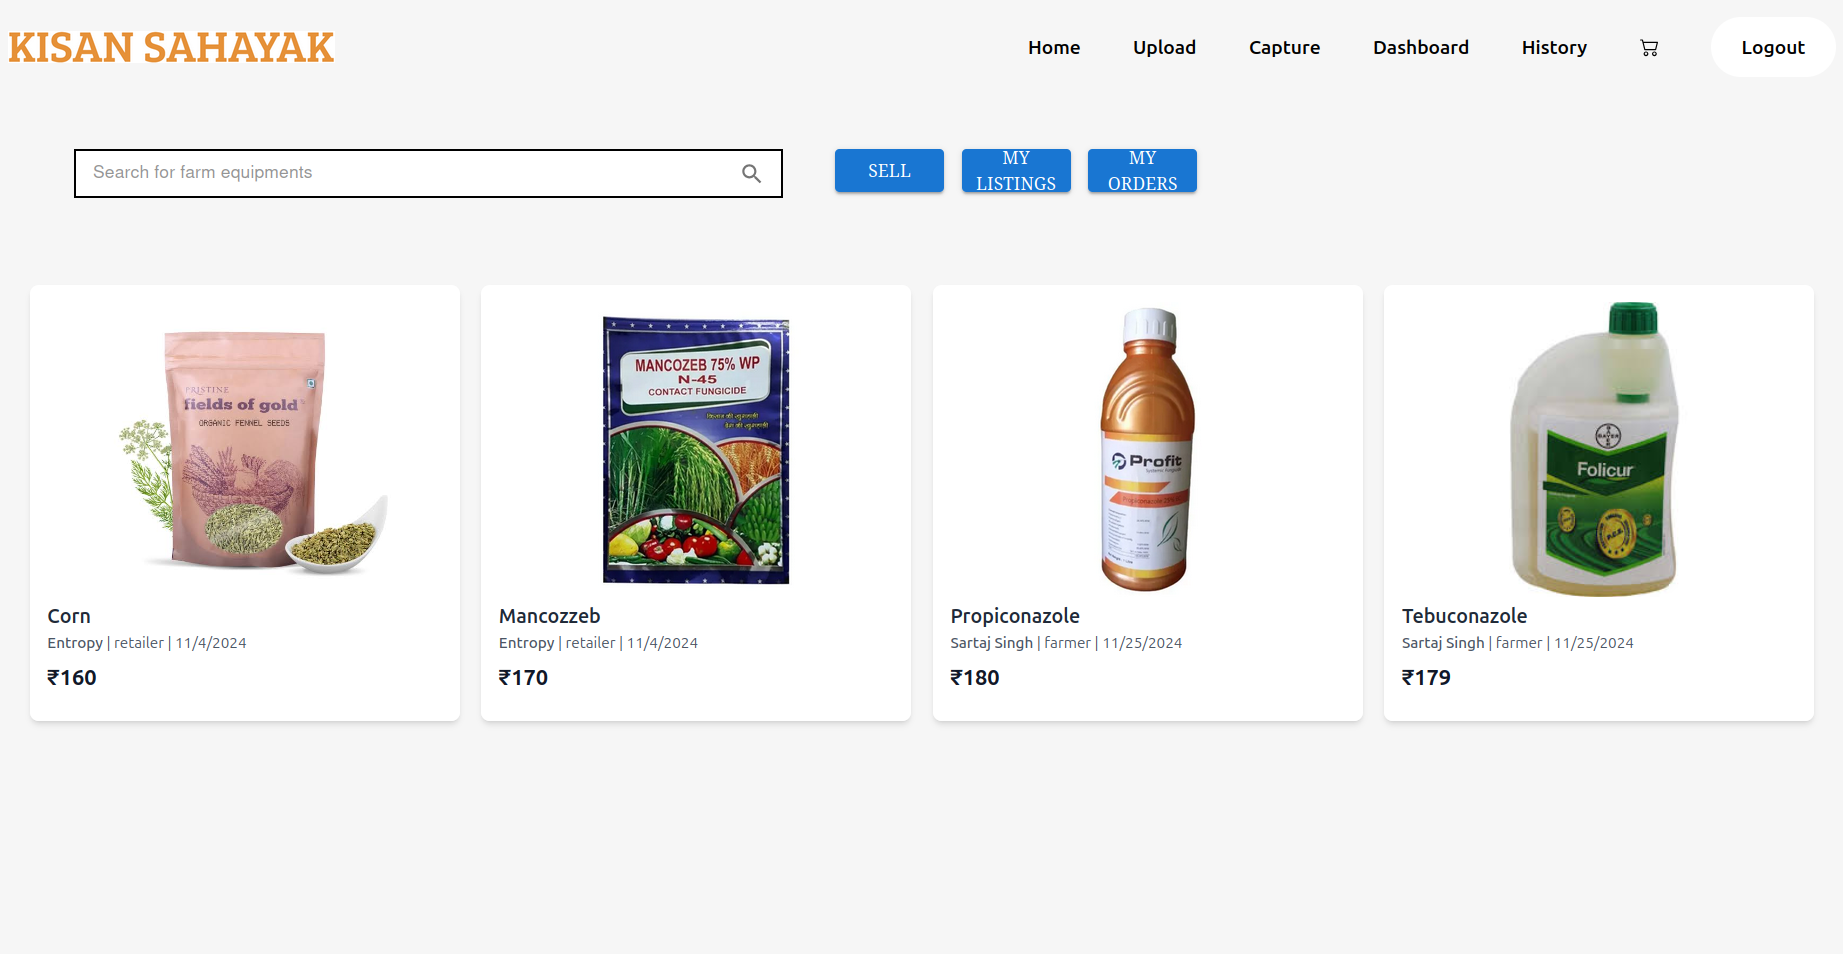
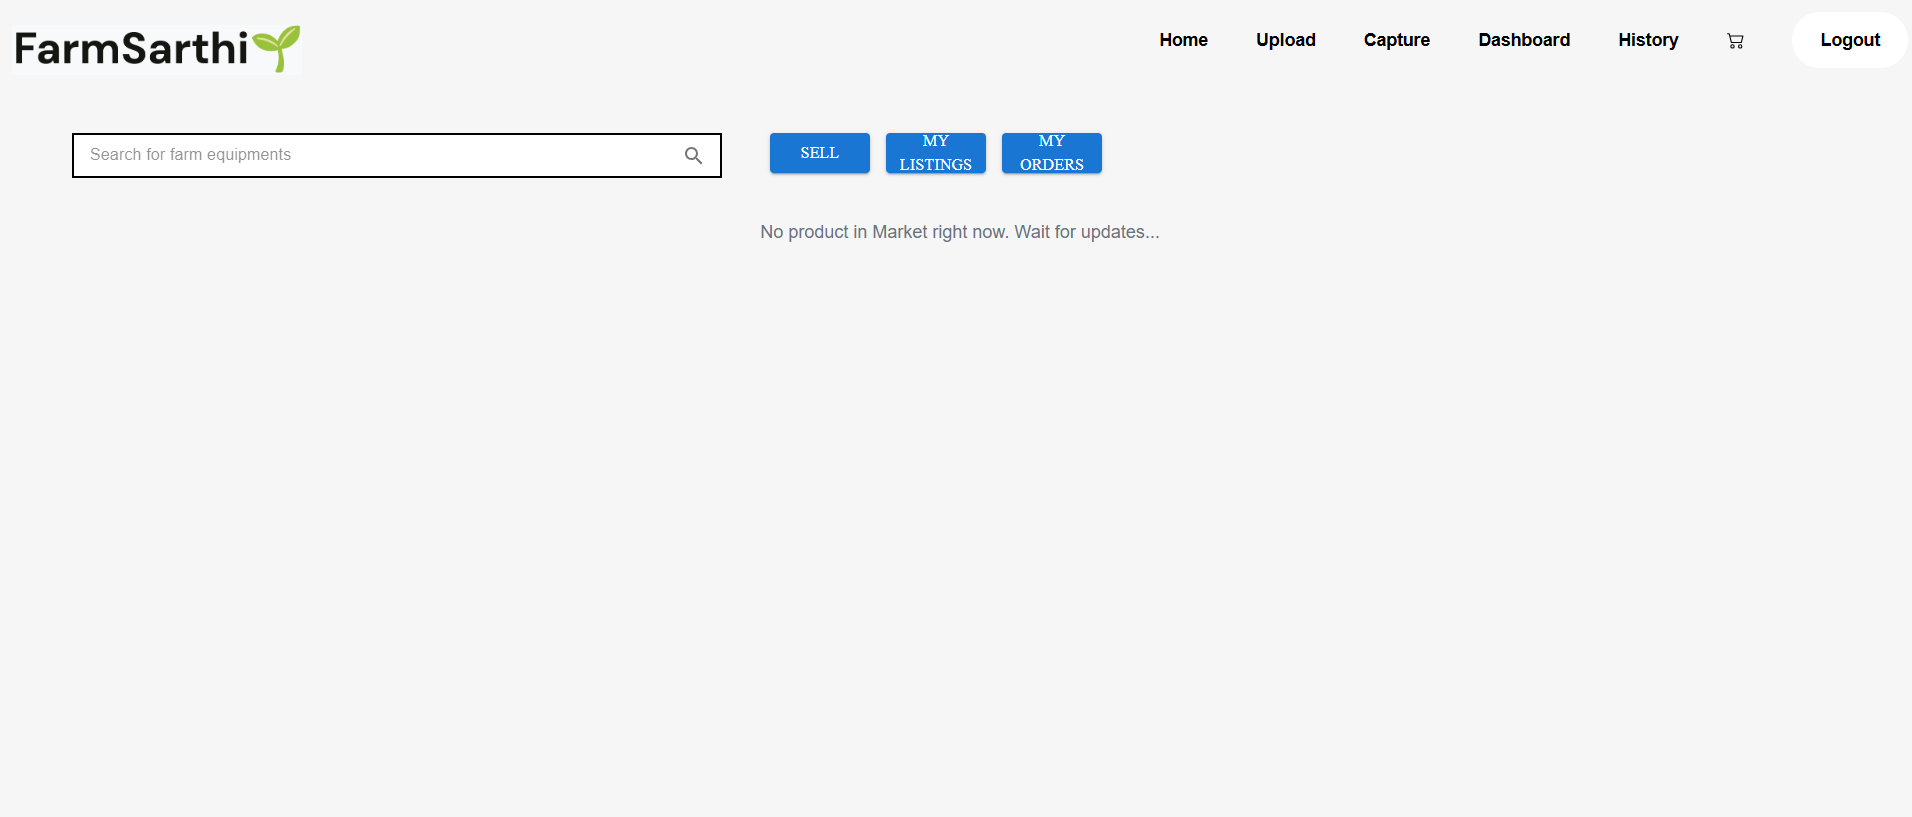
Final Update

diff --git a/frontend/src/components/navbars/Navbar-home.jsx b/frontend/src/components/navbars/Navbar-home.jsx
@@ -57,17 +57,24 @@ const Navbar = () => {
   return (
     <nav>
       <div className="nav-logo-container">
-        <img src="/KisanSahayak.png" alt="logo" className="h-[30px] w-full" />
+        <img src="/FarmSarthi.png" alt="logo" className="h-[50px] w-full mt-5" />
       </div>
       <div className="navbar-links-container hidden md:flex ml-4">
         <a href="" className="relative inline-block px-3 py-2 text-black after:content-[''] after:absolute after:left-0 after:bottom-0 after:h-[3px] after:w-0 after:bg-orange-500 after:transition-all after:duration-300 hover:after:w-full hover:after:bg-orange-500 hover:text-orange-500">Welcome</a>
 
-        <a href="#testimonial-id" className="relative inline-block px-3 py-2 text-black after:content-[''] after:absolute after:left-0 after:bottom-0 after:h-[3px] after:w-0 after:bg-orange-500 after:transition-all after:duration-300 hover:after:w-full hover:after:bg-orange-500 hover:text-orange-500">Statistics</a>
+        <a href="#statistics-id" className="relative inline-block px-3 py-2 text-black after:content-[''] after:absolute after:left-0 after:bottom-0 after:h-[3px] after:w-0 after:bg-orange-500 after:transition-all after:duration-300 hover:after:w-full hover:after:bg-orange-500 hover:text-orange-500">Statistics</a>
 
         <a href="#new-activities-id" className="relative inline-block px-3 py-2 text-black after:content-[''] after:absolute after:left-0 after:bottom-0 after:h-[3px] after:w-0 after:bg-orange-500 after:transition-all after:duration-300 hover:after:w-full hover:after:bg-orange-500 hover:text-orange-500">New</a>
 
-        <a href="#contact-id" className="relative inline-block px-3 py-2 text-black after:content-[''] after:absolute after:left-0 after:bottom-0 after:h-[3px] after:w-0 after:bg-orange-500 after:transition-all after:duration-300 hover:after:w-full hover:after:bg-orange-500 hover:text-orange-500">Contact</a>
-
+        <a href="#"
+  onClick={(e) => {
+    e.preventDefault(); // prevent default anchor behavior
+    window.scrollTo({ top: document.body.scrollHeight, behavior: "smooth" });
+  }}
+  className="relative inline-block px-3 py-2 text-black after:content-[''] after:absolute after:left-0 after:bottom-0 after:h-[3px] after:w-0 after:bg-orange-500 after:transition-all after:duration-300 hover:after:w-full hover:after:bg-orange-500 hover:text-orange-500"
+>
+  Contact
+</a>
         <a onClick={() => navigate("/marketplace")} href="" className="hover:text-orange-500">
           <BsCart2 className="navbar-cart-icon" />
         </a>

diff --git a/frontend/src/components/navbars/Navbar-actions.jsx b/frontend/src/components/navbars/Navbar-actions.jsx
@@ -57,7 +57,7 @@ const Navbar = () => {
     return (
         <nav className="px-3">
             <div className="nav-logo-container">
-                <img src="/KisanSahayak.png" alt="logo" className="h-[30px] w-full" />
+                <img src="/FarmSarthi.png" alt="logo" className="h-[50px] w-full mt-5" />
             </div>
             <div className="navbar-links-container hidden md:flex ml-4">
                 <Link

diff --git a/frontend/index.html b/frontend/index.html
@@ -4,7 +4,7 @@
     <meta charset="UTF-8" />
     <link rel="icon" type="image/svg+xml" href="/KS_Logo.png" />
     <meta name="viewport" content="width=device-width, initial-scale=1.0" />
-    <title>KisanSahayak: One Stop solution for all agricultural & crop-health problems</title>
+    <title>FarmSarthi: One Stop solution for all agricultural & crop-health problems</title>
   </head>
   <body>
     <div id="root"></div>

diff --git a/frontend/src/components/Footer.jsx b/frontend/src/components/Footer.jsx
@@ -8,7 +8,7 @@ const Footer = () => {
     <div className="footer-wrapper">
       <div className="footer-section-one">
         <div className="footer-logo-container">
-          <img src="/KisanSahayak.png" alt="" style={{width: "100%", height: "25px"}}/>
+          <img src="/FarmSarthi.png" alt="" style={{width: "100%", height: "25px"}}/>
         </div>
         <div className="footer-icons">
           <BsTwitter />

diff --git a/frontend/src/components/navbars/Navbar.jsx b/frontend/src/components/navbars/Navbar.jsx
@@ -44,7 +44,7 @@ const Navbar = () => {
   return (
     <nav>
       <div className="nav-logo-container">
-        <img src="/KisanSahayak.png" alt="logo" style={{ width: "90%", height: "30px" }} />
+        <img src="/FarmSarthi.png" alt="logo" style={{ width: "90%", height: "50px" }} />
       </div>
       <div className="navbar-links-container hidden md:flex ml-4">
         <a href="">Home</a>

diff --git a/frontend/src/hooks/useSendEmail.js b/frontend/src/hooks/useSendEmail.js
@@ -16,7 +16,7 @@ const useSendEmail = () => {
             template_params: {
                 from_name: authUser.name,
                 from_email: mail,
-                to_name: "KisanSahayak",
+                to_name: "FarmSarthi",
                 message: message
             }
         };

diff --git a/README.md b/README.md
@@ -1,21 +1,18 @@
-# KisanSahayak - Empowering Farmers with Smart Agriculture Solutions
+# FarmSarthi - Empowering Farmers with Smart Agriculture Solutions
 
-**KisanSahayak** is a smart, data-driven web application designed to help farmers make informed decisions. By integrating machine learning, environmental data, advanced imaging techniques, and innovative marketplace features, we aim to provide farmers with real-time insights into rainfall patterns, crop recommendations, disease management, and more.
+**FarmSarthi** is a smart, data-driven web application designed to help farmers make informed decisions. By integrating machine learning, environmental data, advanced imaging techniques, and innovative marketplace features, we aim to provide farmers with real-time insights into rainfall patterns, crop recommendations, disease management, and more.
 
 ## Table of Contents
 - [Project Overview](#project-overview)
 - [Features](#features)
 - [Technologies Used](#technologies-used)
 - [Getting Started](#getting-started)
-- [Usage](#usage)
-- [Mobile App Usage](#app-usage)
-- [Dataset Information](#dataset-information)
+- [Website Usage](#website-usage)
 - [Future Work](#future-work)
 - [Team Members](#team-members)
-- [License](#license)
 
 ## Project Overview
-KisanSahayak offers farmers a comprehensive solution for smarter agricultural practices, utilizing cutting-edge technologies such as machine learning and computer vision. Key highlights include:
+FarmSarthi offers farmers a comprehensive solution for smarter agricultural practices, utilizing cutting-edge technologies such as machine learning and computer vision. Key highlights include:
 - **Rainfall & Climate Analysis:** In-depth analysis of district-wise rainfall patterns and climate variations to help farmers plan their sowing and irrigation strategies.
 - **Crop Recommendations:** AI-based suggestions for optimal crops to grow, based on soil nutrients, temperature, and humidity.
 - **Disease Prediction & Management:** Our system predicts potential crop diseases and offers management tips, using both traditional and advanced methods like hyperspectral imaging.
@@ -25,7 +22,7 @@ KisanSahayak offers farmers a comprehensive solution for smarter agricultural pr
 - **Trusted User Marketplace:** A secure, verified platform for farmers to sell or buy products from other farmers or retailers.
 - **Disease Prediction:** The app predicts the most likely disease in a farm based on current environmental and crop conditions.
 
-KisanSahayak aims to simplify agricultural decision-making, reduce risks, and improve yields for farmers across India.
+FarmSarthi aims to simplify agricultural decision-making, reduce risks, and improve yields for farmers across India.
 
 ## Features
 - **Rainfall Analysis:** Understand actual vs. normal rainfall and deviation trends.
@@ -39,6 +36,7 @@ KisanSahayak aims to simplify agricultural decision-making, reduce risks, and im
 - **Marketplace:** A platform for farmers to trade goods with each other or retailers, ensuring fair access to resources.
 - **Most Likely Disease Prediction:** AI-powered predictions on the most probable diseases affecting the crops in a specific farm.
 - **AI-powered AR Image Assistance:** While capturing crop photos, the app will use augmented reality (AR) to guide farmers on the optimal way to take the picture for disease detection.
+- **AI Chatbot:**An intelligent AI chatbot that guides farmers with personalized crop advice, disease predictions, and easy voice-enabled support.
 
 ## Technologies Used
 - **Backend:** Node JS
@@ -52,74 +50,65 @@ KisanSahayak aims to simplify agricultural decision-making, reduce risks, and im
 To get started with the project, clone the repository and install the necessary dependencies.
 
 ```bash
-git clone https://github.com/yourusername/kisansahayak.git
-cd kisansahayak
+git clone https://github.com/bestcoder22/FarmSarthi.git
+cd FarmSarthi
 cd backend
 npm install
 cd ../frontend
 npm install
-cd ../ML
+cd ..
+py -m venv venv
+source venv/Scripts/activate
+cd ML
+pip install -r requirements.txt
+cd ../chatbot
 pip install -r requirements.txt
 ```
+Open 'Docker Desktop'
+Run below command from command prompt
+```bash
+docker run --name my-redis -p 6379:6379 -d redis:7
+```
+after this run below command to confirm docker image is running
+```bash
+docker exec -it my-redis redis-cli ping
+```
+you should see below output
+PONG
+
 
 ## Website Usage
 Once the project is set up, you can start the web application using the following command on your root directory:
 
 ```bash
-cd frontend
-npm run dev
+cd ML
+uvicorn app:app --reload
+cd ../chatbot
+python app.py
 cd ../backend
 npm start
-cd ../ML
-uvicorn app:app --reload
+cd ../frontend
+npm run dev
 ```
 
 Open your browser and navigate to `http://localhost:5173/` to use the application.
 
-## App Usage
-You can also start the mobile application using the following command on your root directory:
-
-```bash
-cd android/frontend
-npx expo start
-cd ../../backend
-npm start
-cd ../ML
-uvicorn app:app --reload
-```
-
-Download Expo Go app on your mobile device
-
-- [Download for Android (Google Play Store)](https://play.google.com/store/apps/details?id=host.exp.exponent)
-- [Download for iOS (App Store)](https://apps.apple.com/app/expo-go/id982107779)
-
-After the app has started running, a QR code will be generated in your terminal or browser. Open the Expo Go app on your mobile phone and use the built-in camera or Expo Go to scan the QR code. Once scanned, the mobile app will load directly in the Expo Go app.
-
-## Dataset Information
-Our data is sourced from reliable datasets like IMD (India Meteorological Department) and district-wise agricultural reports. The data contains key features like district names, actual rainfall, normal rainfall, percentage deviation from the norm, soil nutrients (NPK), temperature, and humidity.
 
 ## Future Work
-We are actively working on enhancing KisanSahayak by introducing:
+We are actively working on enhancing FarmSarthi by introducing:
 - **Hyperspectral Reflectance Method:** We are exploring hyperspectral imaging techniques to predict crop diseases more accurately, leveraging the reflectance properties of leaves and plants.
 - **Expanded Crop and Disease Prediction Models:** Building more robust models to predict diseases in a broader range of crops and environmental conditions.
 
-These features are in development and will be added to future versions of KisanSahayak.
+These features are in development and will be added to future versions of FarmSarthi.
 
 ## Team Members
 This project is a collaborative effort by:
-- **Sagnik Basak** (Team Leader) - Machine Learning Engineer & Data Analyst
-- **Tamojit Das** – Full Stack Development, Application System Design & Project Manager
-- **Ankan Das** – DL Model Design & Development
-- **Debeshee Sen** – Full Stack Development & UI/UX Design
-- **Titas Kabiraj** – Front End, UI/UX Design & Documentation
-- **Ritesh Das** – Android Development & Full Stack Development
+- **Shyam** (Team Leader) - back-end, front-end, database-development, full-stack-development, android-development, ui-ux, machine-learning, system-design
+- **Soham Amrutkar** – back-end, front-end, database-development, full-stack-development, machine-learning, system-design
+- **Spandan Salunkhe** – deep Learning,  model design & development, full-stack-development, genai
 
-For inquiries, feel free to contact us via [kisansahayak@gmail.com](mailto:kisansahayak@gmail.com).
+For inquiries, feel free to contact us via [FarmSarthi@gmail.com](mailto:FarmSarthi@gmail.com).
 
-## License
-This project is licensed under the MIT License - see the [LICENSE](LICENSE) file for details.
 
 ---
-
-**Note:** This is a public repository, and we are open to contributions.
 
